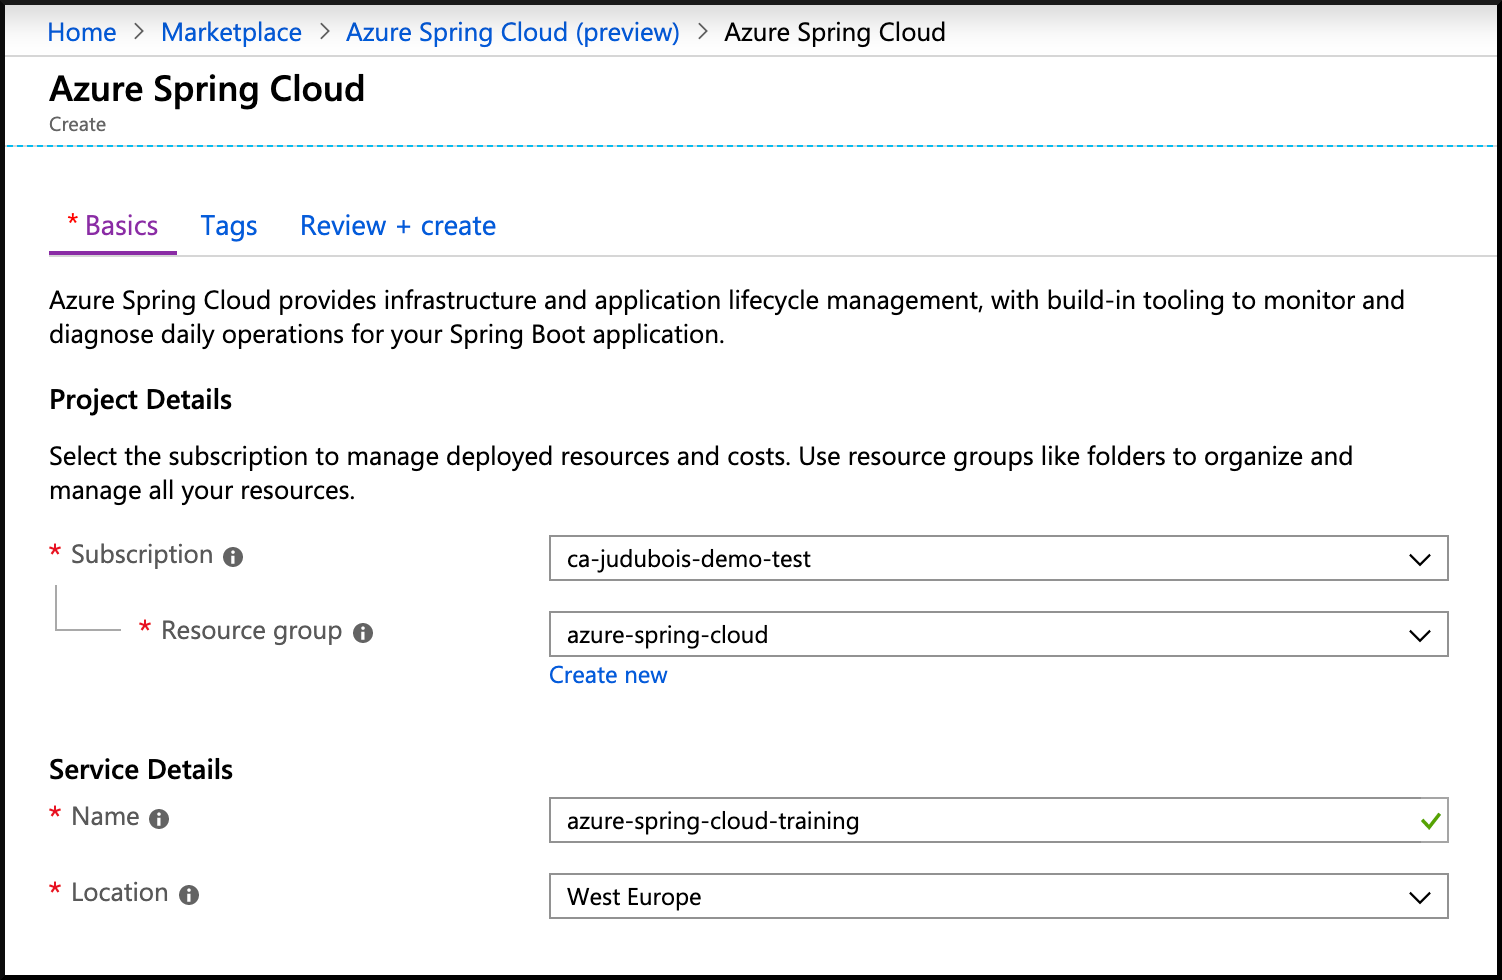
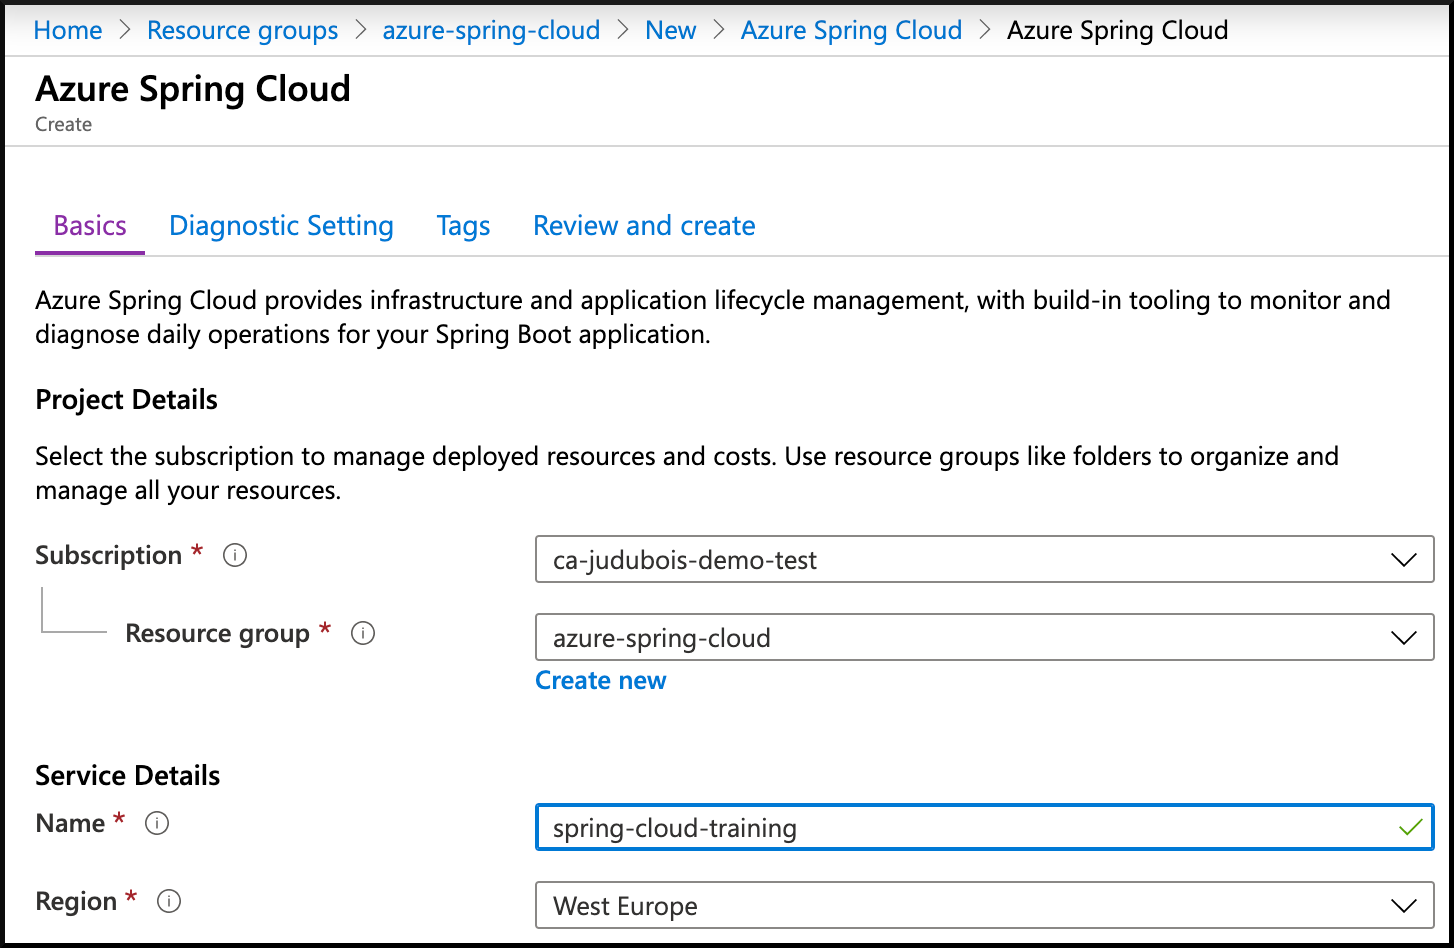
update the creation screen with the new diagnostics tab

diff --git a/01-create-a-cluster/README.md b/01-create-a-cluster/README.md
@@ -40,9 +40,17 @@ az extension add --name spring-cloud
 
 - Click on "Azure Spring Cloud" and then on "Create".
 - Select your subscription, resource group name, name of the service and location.
-- Once everything is validated, the cluster can be created.
 
 ![Cluster configuration](media/02-creation-details.png)
+
+- Click on "Next : Diagnostic Setting" to go to the next screen.
+- Here you can either select an existing "Log Analytics workspace". Create a new one, and we will configure it in [03 - Configure application logs](../03-configure-application-logs/README.md).
+
+![Configure Log Analytics](media/03-creation-log-analytics.png)
+
+![Create new Log Analytics](media/04-create-new-log-analytics.png)
+
+- Once everything is validated, the cluster can be created.
 
 Creating the cluster will take a few minutes.
 
